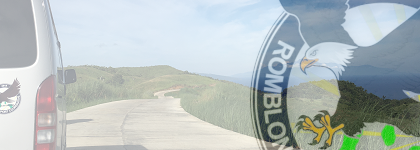
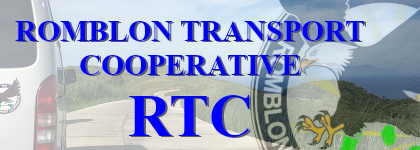
update on home page

Changed region(s): [[0.031, 0.1333, 0.8667, 0.2933], [0.1857, 0.3467, 0.7429, 0.5067], [0.3095, 0.6133, 0.619, 0.9333]]

diff --git a/tablas/templates/base.html b/tablas/templates/base.html
@@ -24,7 +24,6 @@
           <!-- <div class="base-header" style="background-image: url({% static 'img/site/x.jpg' %});"> -->
           
           <div class="base-header" style="background-image: url({% static 'img/site/eagle.png' %});">
-              <h1>Romblon Transport Cooperative (RTC)</h1>
           </div>
 
           <div class="menu-items" style="background-image: url({% static 'img/site/welcome1.png' %});">

diff --git a/static/css/base.css b/static/css/base.css
@@ -12,7 +12,7 @@ body {
 }
 
 .base-header{
-    flex-basis: 10%;
+    flex-basis: 15%;
     width: 100%;
     padding: 10px;
     background-color: white;
@@ -26,7 +26,7 @@ body {
 }
 
 .base-content{
-    flex-basis: 50%;
+    flex-basis: 45%;
 }
 
 .base-footer{
